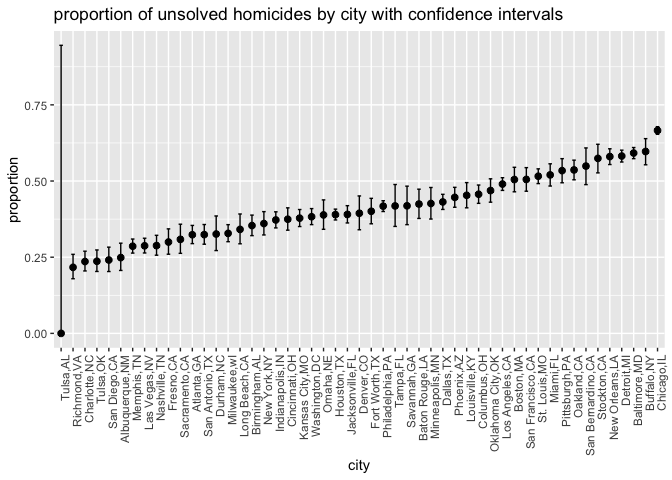
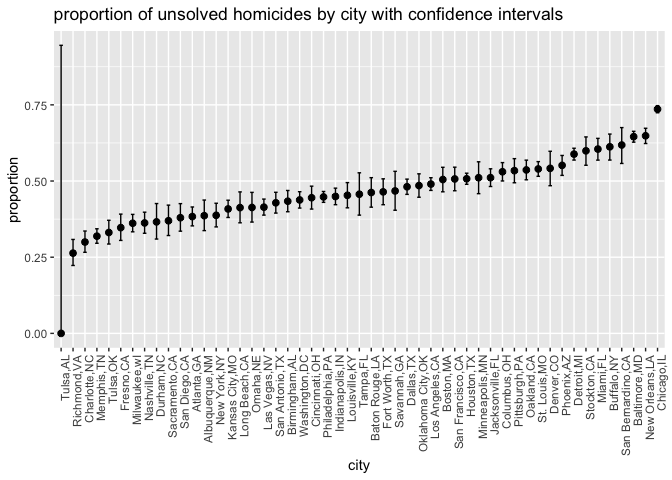
fixed issue

Changed region(s): [[0.125, 0.7188, 1.0, 0.9375], [0.0938, 0.2188, 1.0, 0.5625]]

diff --git a/p8105_hw5_mt3866.md b/p8105_hw5_mt3866.md
@@ -205,7 +205,7 @@ city_summary = homicides |>
   group_by(city_state) |>
   summarize(
     total_homicides = n(),
-    unsolved_homicides = sum(disposition %in% c("Open/No arrest")
+    unsolved_homicides = sum(disposition %in% c("Open/No arrest", "Closed without arrest")
   )) |>
   arrange(desc(total_homicides))
 
@@ -215,16 +215,16 @@ city_summary
     ## # A tibble: 51 × 3
     ##    city_state      total_homicides unsolved_homicides
     ##    <chr>                     <int>              <int>
-    ##  1 Chicago,IL                 5535               3686
-    ##  2 Philadelphia,PA            3037               1268
-    ##  3 Houston,TX                 2942               1147
-    ##  4 Baltimore,MD               2827               1673
-    ##  5 Detroit,MI                 2519               1466
+    ##  1 Chicago,IL                 5535               4073
+    ##  2 Philadelphia,PA            3037               1360
+    ##  3 Houston,TX                 2942               1493
+    ##  4 Baltimore,MD               2827               1825
+    ##  5 Detroit,MI                 2519               1482
     ##  6 Los Angeles,CA             2257               1106
-    ##  7 St. Louis,MO               1677                865
-    ##  8 Dallas,TX                  1567                676
-    ##  9 Memphis,TN                 1514                433
-    ## 10 New Orleans,LA             1434                832
+    ##  7 St. Louis,MO               1677                905
+    ##  8 Dallas,TX                  1567                754
+    ##  9 Memphis,TN                 1514                483
+    ## 10 New Orleans,LA             1434                930
     ## # ℹ 41 more rows
 
 Estimate proportion of unsolved homicides. Save, use broom::tidy and
@@ -246,7 +246,7 @@ baltimore_tidy |>
 
 | city_state   | estimate | conf.low | conf.high |
 |:-------------|---------:|---------:|----------:|
-| Baltimore,MD |    0.592 |    0.573 |      0.61 |
+| Baltimore,MD |    0.646 |    0.628 |     0.663 |
 
 Run for each city and extract
 
@@ -272,16 +272,16 @@ city_props = city_summary|>
     ## # A tibble: 51 × 4
     ##    city_state      estimate conf.low conf.high
     ##    <chr>              <dbl>    <dbl>     <dbl>
-    ##  1 Chicago,IL         0.666    0.653     0.678
-    ##  2 Philadelphia,PA    0.418    0.400     0.435
-    ##  3 Houston,TX         0.390    0.372     0.408
-    ##  4 Baltimore,MD       0.592    0.573     0.610
-    ##  5 Detroit,MI         0.582    0.562     0.601
+    ##  1 Chicago,IL         0.736    0.724     0.747
+    ##  2 Philadelphia,PA    0.448    0.430     0.466
+    ##  3 Houston,TX         0.507    0.489     0.526
+    ##  4 Baltimore,MD       0.646    0.628     0.663
+    ##  5 Detroit,MI         0.588    0.569     0.608
     ##  6 Los Angeles,CA     0.490    0.469     0.511
-    ##  7 St. Louis,MO       0.516    0.492     0.540
-    ##  8 Dallas,TX          0.431    0.407     0.456
-    ##  9 Memphis,TN         0.286    0.263     0.310
-    ## 10 New Orleans,LA     0.580    0.554     0.606
+    ##  7 St. Louis,MO       0.540    0.515     0.564
+    ##  8 Dallas,TX          0.481    0.456     0.506
+    ##  9 Memphis,TN         0.319    0.296     0.343
+    ## 10 New Orleans,LA     0.649    0.623     0.673
     ## # ℹ 41 more rows
 
 Create the plot & arrange by estimate
